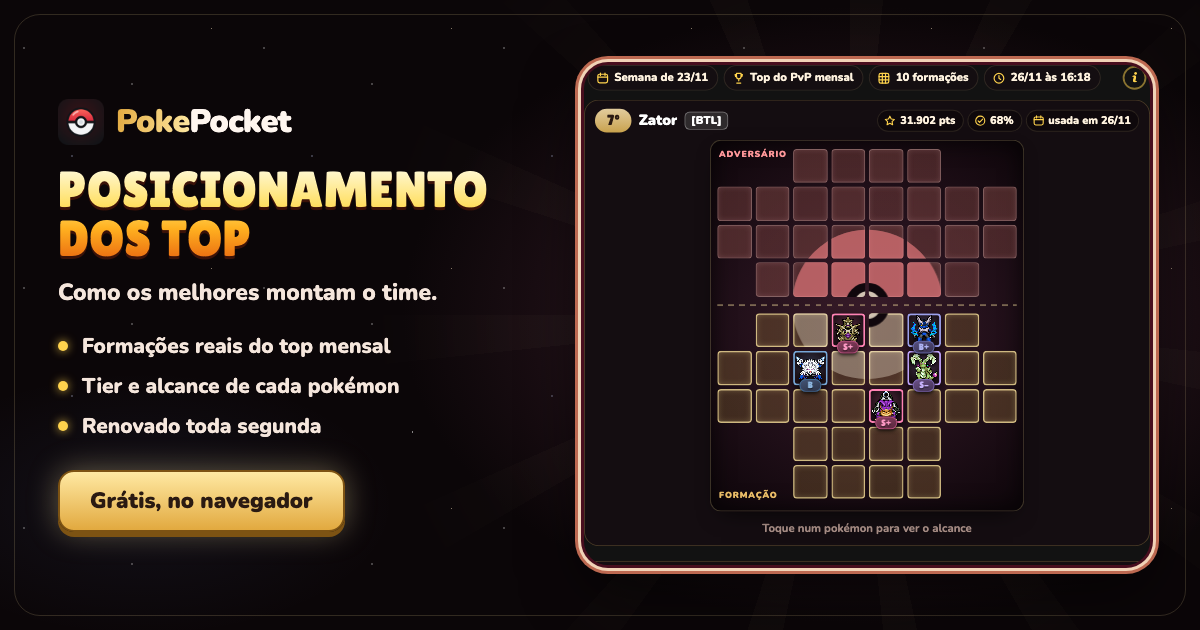
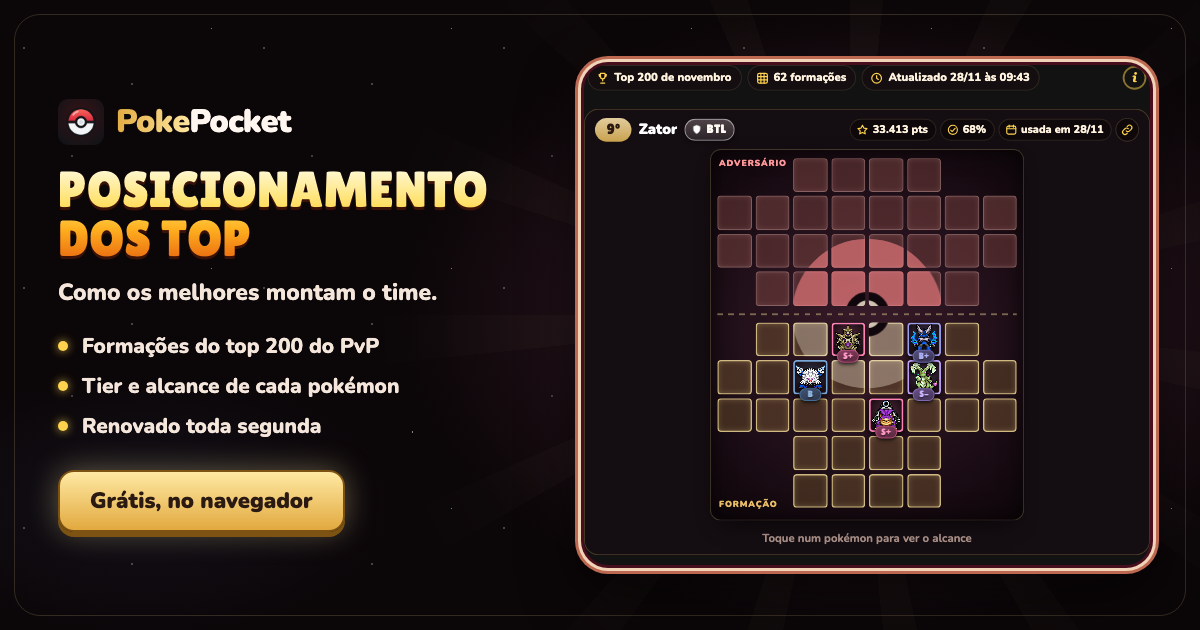
fix(posicionamento): texto diz que a lista traz todas as formações do top 200 vistas em partidas

diff --git a/posicionamento/index.html b/posicionamento/index.html
@@ -4,20 +4,20 @@
   <meta charset="utf-8" />
   <meta name="viewport" content="width=device-width, initial-scale=1" />
   <title>Posicionamento dos top · PokePocket</title>
-  <meta name="description" content="Formações montadas por jogadores do top mensal do PvP do Pokéidle: onde cada pokémon fica no tabuleiro, tier e alcance. Renova toda segunda." />
+  <meta name="description" content="Formações do top 200 do PvP mensal do Pokéidle vistas em partidas: onde cada pokémon fica no tabuleiro, tier e alcance. Renova toda segunda." />
   <meta name="theme-color" content="#0b0608" />
   <meta property="og:type" content="website" />
   <meta property="og:site_name" content="PokePocket" />
   <meta property="og:locale" content="pt_BR" />
   <meta property="og:title" content="Posicionamento dos top · PokePocket" />
-  <meta property="og:description" content="Formações montadas por jogadores do top mensal do PvP, com tier e alcance de cada pokémon" />
+  <meta property="og:description" content="Formações do top 200 do PvP mensal vistas em partidas, com tier e alcance de cada pokémon" />
   <meta property="og:url" content="https://iampiscis.github.io/pokepocket/posicionamento/" />
-  <meta property="og:image" content="https://iampiscis.github.io/pokepocket/assets/previa-posicionamento.png?v=202611270007" />
+  <meta property="og:image" content="https://iampiscis.github.io/pokepocket/assets/previa-posicionamento.png?v=202611281704" />
   <meta property="og:image:width" content="1200" />
   <meta property="og:image:height" content="630" />
-  <meta property="og:image:alt" content="Posicionamento dos top no PokePocket: formações montadas por jogadores do top mensal do PvP" />
+  <meta property="og:image:alt" content="Posicionamento dos top no PokePocket: formações do top 200 do PvP mensal vistas em partidas" />
   <meta name="twitter:card" content="summary_large_image" />
-  <meta name="twitter:image" content="https://iampiscis.github.io/pokepocket/assets/previa-posicionamento.png?v=202611270007" />
+  <meta name="twitter:image" content="https://iampiscis.github.io/pokepocket/assets/previa-posicionamento.png?v=202611281704" />
   <link rel="icon" href="../assets/icone.png" />
   <link rel="stylesheet" href="../assets/ferramentas.css?v=20261128" />
   <script src="../assets/ferramentas.js?v=20261128" defer></script>
@@ -47,7 +47,7 @@
             <a href="../calculadora/" data-goatcounter-click="menu-pos-calculadora" data-goatcounter-title="menu-pos-calculadora"><span class="ferr-ic"><svg viewBox="0 0 24 24" fill="none" stroke="currentColor" stroke-width="2" stroke-linecap="round" stroke-linejoin="round" aria-hidden="true"><rect x="5" y="2.5" width="14" height="19" rx="3"/><path d="M8.5 6.5h7M8.5 11h.01M12 11h.01M15.5 11h.01M8.5 14.5h.01M12 14.5h.01M8.5 18h.01M12 18h.01M15.5 14.5V18"/></svg></span><span class="ferr-txt"><b>Calculadora Pokémon</b><small>Nota, score e preço</small></span></a>
             <a href="../nivel/" data-goatcounter-click="menu-pos-nivel" data-goatcounter-title="menu-pos-nivel"><span class="ferr-ic"><svg viewBox="0 0 24 24" fill="none" stroke="currentColor" stroke-width="2" stroke-linecap="round" stroke-linejoin="round" aria-hidden="true"><path d="M2.5 20.5 9 9.5l3.6 5.6 2.4-3.4 6.5 8.8z"/><path d="M15 11.7V3.5l4.5 1.8L15 7.1"/></svg></span><span class="ferr-txt"><b>Nível</b><small>Quando você chega lá</small></span></a>
             <a href="../tier/" data-goatcounter-click="menu-pos-tier" data-goatcounter-title="menu-pos-tier"><span class="ferr-ic"><svg viewBox="0 0 24 24" fill="none" stroke="currentColor" stroke-width="2" stroke-linecap="round" stroke-linejoin="round" aria-hidden="true"><path d="M8 3.5h8V9a4 4 0 0 1-8 0z"/><path d="M8 5.5H5a3 3 0 0 0 3.2 4M16 5.5h3a3 3 0 0 1-3.2 4M12 13v3.5M8.5 20.5h7M9.5 16.5h5v4h-5z"/></svg></span><span class="ferr-txt"><b>Tier PvP</b><small>O meta do ranqueado, todo dia</small></span></a>
-            <a href="./" aria-current="page"><span class="ferr-ic"><svg viewBox="0 0 24 24" fill="none" stroke="currentColor" stroke-width="2" stroke-linecap="round" stroke-linejoin="round" aria-hidden="true"><rect x="3.5" y="3.5" width="17" height="17" rx="3"/><path d="M3.5 12h17"/><circle cx="12" cy="12" r="3"/><path d="M8 7.5h.01M16 7.5h.01M8 16.5h.01M12 16.5h.01M16 16.5h.01"/></svg></span><span class="ferr-txt"><b>Posicionamento<span class="selo-novo">novo</span></b><small>Formações montadas do top mensal</small></span></a>
+            <a href="./" aria-current="page"><span class="ferr-ic"><svg viewBox="0 0 24 24" fill="none" stroke="currentColor" stroke-width="2" stroke-linecap="round" stroke-linejoin="round" aria-hidden="true"><rect x="3.5" y="3.5" width="17" height="17" rx="3"/><path d="M3.5 12h17"/><circle cx="12" cy="12" r="3"/><path d="M8 7.5h.01M16 7.5h.01M8 16.5h.01M12 16.5h.01M16 16.5h.01"/></svg></span><span class="ferr-txt"><b>Posicionamento<span class="selo-novo">novo</span></b><small>Formações do top 200 do PvP</small></span></a>
             <a href="../monte-seu-time/" data-goatcounter-click="menu-pas" data-goatcounter-title="menu-pas"><span class="ferr-ic"><svg viewBox="0 0 24 24" fill="none" stroke="currentColor" stroke-width="2" stroke-linecap="round" stroke-linejoin="round" aria-hidden="true"><path d="M12 3.5l1.8 5.2 5.2 1.8-5.2 1.8L12 17.5l-1.8-5.2L5 10.5l5.2-1.8z"/><path d="M18.5 15.5l.7 2 2 .7-2 .7-.7 2-.7-2-2-.7 2-.7z"/></svg></span><span class="ferr-txt"><b>Monte seu time<span class="selo-novo">novo</span></b><small>Passivas do PvP no tabuleiro</small></span></a>
             <a href="../farm/" data-goatcounter-click="menu-farm" data-goatcounter-title="menu-farm"><span class="ferr-ic"><svg viewBox="0 0 24 24" fill="none" stroke="currentColor" stroke-width="2" stroke-linecap="round" stroke-linejoin="round" aria-hidden="true"><path d="M4 19.5h16"/><path d="M7 16v-4M12 16V7M17 16v-7"/><path d="M14.5 4.5 17 3l1.5 2.5"/></svg></span><span class="ferr-txt"><b>Top farm<span class="selo-novo">novo</span></b><small>Quem mais farma agora</small></span></a>
             <a href="../shinies/" data-goatcounter-click="menu-shinies" data-goatcounter-title="menu-shinies"><span class="ferr-ic"><svg viewBox="0 0 24 24" fill="none" stroke="currentColor" stroke-width="2" stroke-linecap="round" stroke-linejoin="round" aria-hidden="true"><path d="M12 2.5c.9 4.6 2.9 6.6 7.5 7.5-4.6.9-6.6 2.9-7.5 7.5-.9-4.6-2.9-6.6-7.5-7.5 4.6-.9 6.6-2.9 7.5-7.5z"/><path d="M19 16v4.5M16.75 18.25h4.5"/></svg></span><span class="ferr-txt"><b>Shinies 24h<span class="selo-novo">novo</span></b><small>Os capturados no último dia</small></span></a>
@@ -87,7 +87,7 @@
   <main>
     <section class="abre envolve">
       <h1>Posicionamento <span class="shiny">dos top</span></h1>
-      <p>Jogadores do top 200 do PvP mensal que montam a formação fora da automática</p>
+      <p>Formações do top 200 do PvP mensal vistas em partidas contra as nossas contas</p>
     </section>
 
     <div class="envolve largo">

diff --git a/monte-seu-time/index.html b/monte-seu-time/index.html
@@ -46,7 +46,7 @@
             <a href="../calculadora/" data-goatcounter-click="menu-pas-calculadora" data-goatcounter-title="menu-pas-calculadora"><span class="ferr-ic"><svg viewBox="0 0 24 24" fill="none" stroke="currentColor" stroke-width="2" stroke-linecap="round" stroke-linejoin="round" aria-hidden="true"><rect x="5" y="2.5" width="14" height="19" rx="3"/><path d="M8.5 6.5h7M8.5 11h.01M12 11h.01M15.5 11h.01M8.5 14.5h.01M12 14.5h.01M8.5 18h.01M12 18h.01M15.5 14.5V18"/></svg></span><span class="ferr-txt"><b>Calculadora Pokémon</b><small>Nota, score e preço</small></span></a>
             <a href="../nivel/" data-goatcounter-click="menu-pas-nivel" data-goatcounter-title="menu-pas-nivel"><span class="ferr-ic"><svg viewBox="0 0 24 24" fill="none" stroke="currentColor" stroke-width="2" stroke-linecap="round" stroke-linejoin="round" aria-hidden="true"><path d="M2.5 20.5 9 9.5l3.6 5.6 2.4-3.4 6.5 8.8z"/><path d="M15 11.7V3.5l4.5 1.8L15 7.1"/></svg></span><span class="ferr-txt"><b>Nível</b><small>Quando você chega lá</small></span></a>
             <a href="../tier/" data-goatcounter-click="menu-pas-tier" data-goatcounter-title="menu-pas-tier"><span class="ferr-ic"><svg viewBox="0 0 24 24" fill="none" stroke="currentColor" stroke-width="2" stroke-linecap="round" stroke-linejoin="round" aria-hidden="true"><path d="M8 3.5h8V9a4 4 0 0 1-8 0z"/><path d="M8 5.5H5a3 3 0 0 0 3.2 4M16 5.5h3a3 3 0 0 1-3.2 4M12 13v3.5M8.5 20.5h7M9.5 16.5h5v4h-5z"/></svg></span><span class="ferr-txt"><b>Tier PvP</b><small>O meta do ranqueado, todo dia</small></span></a>
-            <a href="../posicionamento/" data-goatcounter-click="menu-pas-posicionamento" data-goatcounter-title="menu-pas-posicionamento"><span class="ferr-ic"><svg viewBox="0 0 24 24" fill="none" stroke="currentColor" stroke-width="2" stroke-linecap="round" stroke-linejoin="round" aria-hidden="true"><rect x="3.5" y="3.5" width="17" height="17" rx="3"/><path d="M3.5 12h17"/><circle cx="12" cy="12" r="3"/><path d="M8 7.5h.01M16 7.5h.01M8 16.5h.01M12 16.5h.01M16 16.5h.01"/></svg></span><span class="ferr-txt"><b>Posicionamento<span class="selo-novo">novo</span></b><small>Formações montadas do top mensal</small></span></a>
+            <a href="../posicionamento/" data-goatcounter-click="menu-pas-posicionamento" data-goatcounter-title="menu-pas-posicionamento"><span class="ferr-ic"><svg viewBox="0 0 24 24" fill="none" stroke="currentColor" stroke-width="2" stroke-linecap="round" stroke-linejoin="round" aria-hidden="true"><rect x="3.5" y="3.5" width="17" height="17" rx="3"/><path d="M3.5 12h17"/><circle cx="12" cy="12" r="3"/><path d="M8 7.5h.01M16 7.5h.01M8 16.5h.01M12 16.5h.01M16 16.5h.01"/></svg></span><span class="ferr-txt"><b>Posicionamento<span class="selo-novo">novo</span></b><small>Formações do top 200 do PvP</small></span></a>
             <a href="./" aria-current="page"><span class="ferr-ic"><svg viewBox="0 0 24 24" fill="none" stroke="currentColor" stroke-width="2" stroke-linecap="round" stroke-linejoin="round" aria-hidden="true"><path d="M12 3.5l1.8 5.2 5.2 1.8-5.2 1.8L12 17.5l-1.8-5.2L5 10.5l5.2-1.8z"/><path d="M18.5 15.5l.7 2 2 .7-2 .7-.7 2-.7-2-2-.7 2-.7z"/></svg></span><span class="ferr-txt"><b>Monte seu time<span class="selo-novo">novo</span></b><small>Passivas do PvP no tabuleiro</small></span></a>
             <a href="../farm/" data-goatcounter-click="menu-farm" data-goatcounter-title="menu-farm"><span class="ferr-ic"><svg viewBox="0 0 24 24" fill="none" stroke="currentColor" stroke-width="2" stroke-linecap="round" stroke-linejoin="round" aria-hidden="true"><path d="M4 19.5h16"/><path d="M7 16v-4M12 16V7M17 16v-7"/><path d="M14.5 4.5 17 3l1.5 2.5"/></svg></span><span class="ferr-txt"><b>Top farm<span class="selo-novo">novo</span></b><small>Quem mais farma agora</small></span></a>
             <a href="../shinies/" data-goatcounter-click="menu-shinies" data-goatcounter-title="menu-shinies"><span class="ferr-ic"><svg viewBox="0 0 24 24" fill="none" stroke="currentColor" stroke-width="2" stroke-linecap="round" stroke-linejoin="round" aria-hidden="true"><path d="M12 2.5c.9 4.6 2.9 6.6 7.5 7.5-4.6.9-6.6 2.9-7.5 7.5-.9-4.6-2.9-6.6-7.5-7.5 4.6-.9 6.6-2.9 7.5-7.5z"/><path d="M19 16v4.5M16.75 18.25h4.5"/></svg></span><span class="ferr-txt"><b>Shinies 24h<span class="selo-novo">novo</span></b><small>Os capturados no último dia</small></span></a>

diff --git a/nivel/index.html b/nivel/index.html
@@ -48,7 +48,7 @@
             <a href="../calculadora/" data-goatcounter-click="menu-nivel-calculadora" data-goatcounter-title="menu-nivel-calculadora"><span class="ferr-ic"><svg viewBox="0 0 24 24" fill="none" stroke="currentColor" stroke-width="2" stroke-linecap="round" stroke-linejoin="round" aria-hidden="true"><rect x="5" y="2.5" width="14" height="19" rx="3"/><path d="M8.5 6.5h7M8.5 11h.01M12 11h.01M15.5 11h.01M8.5 14.5h.01M12 14.5h.01M8.5 18h.01M12 18h.01M15.5 14.5V18"/></svg></span><span class="ferr-txt"><b>Calculadora Pokémon</b><small>Nota, score e preço</small></span></a>
             <a href="./" aria-current="page"><span class="ferr-ic"><svg viewBox="0 0 24 24" fill="none" stroke="currentColor" stroke-width="2" stroke-linecap="round" stroke-linejoin="round" aria-hidden="true"><path d="M2.5 20.5 9 9.5l3.6 5.6 2.4-3.4 6.5 8.8z"/><path d="M15 11.7V3.5l4.5 1.8L15 7.1"/></svg></span><span class="ferr-txt"><b>Nível</b><small>Quando você chega lá</small></span></a>
             <a href="../tier/" data-goatcounter-click="menu-nivel-tier" data-goatcounter-title="menu-nivel-tier"><span class="ferr-ic"><svg viewBox="0 0 24 24" fill="none" stroke="currentColor" stroke-width="2" stroke-linecap="round" stroke-linejoin="round" aria-hidden="true"><path d="M8 3.5h8V9a4 4 0 0 1-8 0z"/><path d="M8 5.5H5a3 3 0 0 0 3.2 4M16 5.5h3a3 3 0 0 1-3.2 4M12 13v3.5M8.5 20.5h7M9.5 16.5h5v4h-5z"/></svg></span><span class="ferr-txt"><b>Tier PvP</b><small>O meta do ranqueado, todo dia</small></span></a>
-            <a href="../posicionamento/" data-goatcounter-click="menu-nivel-pos" data-goatcounter-title="menu-nivel-pos"><span class="ferr-ic"><svg viewBox="0 0 24 24" fill="none" stroke="currentColor" stroke-width="2" stroke-linecap="round" stroke-linejoin="round" aria-hidden="true"><rect x="3.5" y="3.5" width="17" height="17" rx="3"/><path d="M3.5 12h17"/><circle cx="12" cy="12" r="3"/><path d="M8 7.5h.01M16 7.5h.01M8 16.5h.01M12 16.5h.01M16 16.5h.01"/></svg></span><span class="ferr-txt"><b>Posicionamento<span class="selo-novo">novo</span></b><small>Formações montadas do top mensal</small></span></a>
+            <a href="../posicionamento/" data-goatcounter-click="menu-nivel-pos" data-goatcounter-title="menu-nivel-pos"><span class="ferr-ic"><svg viewBox="0 0 24 24" fill="none" stroke="currentColor" stroke-width="2" stroke-linecap="round" stroke-linejoin="round" aria-hidden="true"><rect x="3.5" y="3.5" width="17" height="17" rx="3"/><path d="M3.5 12h17"/><circle cx="12" cy="12" r="3"/><path d="M8 7.5h.01M16 7.5h.01M8 16.5h.01M12 16.5h.01M16 16.5h.01"/></svg></span><span class="ferr-txt"><b>Posicionamento<span class="selo-novo">novo</span></b><small>Formações do top 200 do PvP</small></span></a>
             <a href="../monte-seu-time/" data-goatcounter-click="menu-nivel-pas" data-goatcounter-title="menu-nivel-pas"><span class="ferr-ic"><svg viewBox="0 0 24 24" fill="none" stroke="currentColor" stroke-width="2" stroke-linecap="round" stroke-linejoin="round" aria-hidden="true"><path d="M12 3.5l1.8 5.2 5.2 1.8-5.2 1.8L12 17.5l-1.8-5.2L5 10.5l5.2-1.8z"/><path d="M18.5 15.5l.7 2 2 .7-2 .7-.7 2-.7-2-2-.7 2-.7z"/></svg></span><span class="ferr-txt"><b>Monte seu time<span class="selo-novo">novo</span></b><small>Passivas do PvP no tabuleiro</small></span></a>
             <a href="../farm/" data-goatcounter-click="menu-farm" data-goatcounter-title="menu-farm"><span class="ferr-ic"><svg viewBox="0 0 24 24" fill="none" stroke="currentColor" stroke-width="2" stroke-linecap="round" stroke-linejoin="round" aria-hidden="true"><path d="M4 19.5h16"/><path d="M7 16v-4M12 16V7M17 16v-7"/><path d="M14.5 4.5 17 3l1.5 2.5"/></svg></span><span class="ferr-txt"><b>Top farm<span class="selo-novo">novo</span></b><small>Quem mais farma agora</small></span></a>
             <a href="../shinies/" data-goatcounter-click="menu-shinies" data-goatcounter-title="menu-shinies"><span class="ferr-ic"><svg viewBox="0 0 24 24" fill="none" stroke="currentColor" stroke-width="2" stroke-linecap="round" stroke-linejoin="round" aria-hidden="true"><path d="M12 2.5c.9 4.6 2.9 6.6 7.5 7.5-4.6.9-6.6 2.9-7.5 7.5-.9-4.6-2.9-6.6-7.5-7.5 4.6-.9 6.6-2.9 7.5-7.5z"/><path d="M19 16v4.5M16.75 18.25h4.5"/></svg></span><span class="ferr-txt"><b>Shinies 24h<span class="selo-novo">novo</span></b><small>Os capturados no último dia</small></span></a>

diff --git a/tier/index.html b/tier/index.html
@@ -46,7 +46,7 @@
             <a href="../calculadora/" data-goatcounter-click="menu-tier-calculadora" data-goatcounter-title="menu-tier-calculadora"><span class="ferr-ic"><svg viewBox="0 0 24 24" fill="none" stroke="currentColor" stroke-width="2" stroke-linecap="round" stroke-linejoin="round" aria-hidden="true"><rect x="5" y="2.5" width="14" height="19" rx="3"/><path d="M8.5 6.5h7M8.5 11h.01M12 11h.01M15.5 11h.01M8.5 14.5h.01M12 14.5h.01M8.5 18h.01M12 18h.01M15.5 14.5V18"/></svg></span><span class="ferr-txt"><b>Calculadora Pokémon</b><small>Nota, score e preço</small></span></a>
             <a href="../nivel/" data-goatcounter-click="menu-tier-nivel" data-goatcounter-title="menu-tier-nivel"><span class="ferr-ic"><svg viewBox="0 0 24 24" fill="none" stroke="currentColor" stroke-width="2" stroke-linecap="round" stroke-linejoin="round" aria-hidden="true"><path d="M2.5 20.5 9 9.5l3.6 5.6 2.4-3.4 6.5 8.8z"/><path d="M15 11.7V3.5l4.5 1.8L15 7.1"/></svg></span><span class="ferr-txt"><b>Nível</b><small>Quando você chega lá</small></span></a>
             <a href="./" aria-current="page"><span class="ferr-ic"><svg viewBox="0 0 24 24" fill="none" stroke="currentColor" stroke-width="2" stroke-linecap="round" stroke-linejoin="round" aria-hidden="true"><path d="M8 3.5h8V9a4 4 0 0 1-8 0z"/><path d="M8 5.5H5a3 3 0 0 0 3.2 4M16 5.5h3a3 3 0 0 1-3.2 4M12 13v3.5M8.5 20.5h7M9.5 16.5h5v4h-5z"/></svg></span><span class="ferr-txt"><b>Tier PvP</b><small>O meta do ranqueado, todo dia</small></span></a>
-            <a href="../posicionamento/" data-goatcounter-click="menu-tier-pos" data-goatcounter-title="menu-tier-pos"><span class="ferr-ic"><svg viewBox="0 0 24 24" fill="none" stroke="currentColor" stroke-width="2" stroke-linecap="round" stroke-linejoin="round" aria-hidden="true"><rect x="3.5" y="3.5" width="17" height="17" rx="3"/><path d="M3.5 12h17"/><circle cx="12" cy="12" r="3"/><path d="M8 7.5h.01M16 7.5h.01M8 16.5h.01M12 16.5h.01M16 16.5h.01"/></svg></span><span class="ferr-txt"><b>Posicionamento<span class="selo-novo">novo</span></b><small>Formações montadas do top mensal</small></span></a>
+            <a href="../posicionamento/" data-goatcounter-click="menu-tier-pos" data-goatcounter-title="menu-tier-pos"><span class="ferr-ic"><svg viewBox="0 0 24 24" fill="none" stroke="currentColor" stroke-width="2" stroke-linecap="round" stroke-linejoin="round" aria-hidden="true"><rect x="3.5" y="3.5" width="17" height="17" rx="3"/><path d="M3.5 12h17"/><circle cx="12" cy="12" r="3"/><path d="M8 7.5h.01M16 7.5h.01M8 16.5h.01M12 16.5h.01M16 16.5h.01"/></svg></span><span class="ferr-txt"><b>Posicionamento<span class="selo-novo">novo</span></b><small>Formações do top 200 do PvP</small></span></a>
             <a href="../monte-seu-time/" data-goatcounter-click="menu-tier-pas" data-goatcounter-title="menu-tier-pas"><span class="ferr-ic"><svg viewBox="0 0 24 24" fill="none" stroke="currentColor" stroke-width="2" stroke-linecap="round" stroke-linejoin="round" aria-hidden="true"><path d="M12 3.5l1.8 5.2 5.2 1.8-5.2 1.8L12 17.5l-1.8-5.2L5 10.5l5.2-1.8z"/><path d="M18.5 15.5l.7 2 2 .7-2 .7-.7 2-.7-2-2-.7 2-.7z"/></svg></span><span class="ferr-txt"><b>Monte seu time<span class="selo-novo">novo</span></b><small>Passivas do PvP no tabuleiro</small></span></a>
             <a href="../farm/" data-goatcounter-click="menu-farm" data-goatcounter-title="menu-farm"><span class="ferr-ic"><svg viewBox="0 0 24 24" fill="none" stroke="currentColor" stroke-width="2" stroke-linecap="round" stroke-linejoin="round" aria-hidden="true"><path d="M4 19.5h16"/><path d="M7 16v-4M12 16V7M17 16v-7"/><path d="M14.5 4.5 17 3l1.5 2.5"/></svg></span><span class="ferr-txt"><b>Top farm<span class="selo-novo">novo</span></b><small>Quem mais farma agora</small></span></a>
             <a href="../shinies/" data-goatcounter-click="menu-shinies" data-goatcounter-title="menu-shinies"><span class="ferr-ic"><svg viewBox="0 0 24 24" fill="none" stroke="currentColor" stroke-width="2" stroke-linecap="round" stroke-linejoin="round" aria-hidden="true"><path d="M12 2.5c.9 4.6 2.9 6.6 7.5 7.5-4.6.9-6.6 2.9-7.5 7.5-.9-4.6-2.9-6.6-7.5-7.5 4.6-.9 6.6-2.9 7.5-7.5z"/><path d="M19 16v4.5M16.75 18.25h4.5"/></svg></span><span class="ferr-txt"><b>Shinies 24h<span class="selo-novo">novo</span></b><small>Os capturados no último dia</small></span></a>

diff --git a/calculadora/index.html b/calculadora/index.html
@@ -45,7 +45,7 @@
             <a href="./" aria-current="page"><span class="ferr-ic"><svg viewBox="0 0 24 24" fill="none" stroke="currentColor" stroke-width="2" stroke-linecap="round" stroke-linejoin="round" aria-hidden="true"><rect x="5" y="2.5" width="14" height="19" rx="3"/><path d="M8.5 6.5h7M8.5 11h.01M12 11h.01M15.5 11h.01M8.5 14.5h.01M12 14.5h.01M8.5 18h.01M12 18h.01M15.5 14.5V18"/></svg></span><span class="ferr-txt"><b>Calculadora Pokémon</b><small>Nota, score e preço</small></span></a>
             <a href="../nivel/" data-goatcounter-click="menu-calc-nivel-topo" data-goatcounter-title="menu-calc-nivel-topo"><span class="ferr-ic"><svg viewBox="0 0 24 24" fill="none" stroke="currentColor" stroke-width="2" stroke-linecap="round" stroke-linejoin="round" aria-hidden="true"><path d="M2.5 20.5 9 9.5l3.6 5.6 2.4-3.4 6.5 8.8z"/><path d="M15 11.7V3.5l4.5 1.8L15 7.1"/></svg></span><span class="ferr-txt"><b>Nível</b><small>Quando você chega lá</small></span></a>
             <a href="../tier/" data-goatcounter-click="menu-calc-tier-topo" data-goatcounter-title="menu-calc-tier-topo"><span class="ferr-ic"><svg viewBox="0 0 24 24" fill="none" stroke="currentColor" stroke-width="2" stroke-linecap="round" stroke-linejoin="round" aria-hidden="true"><path d="M8 3.5h8V9a4 4 0 0 1-8 0z"/><path d="M8 5.5H5a3 3 0 0 0 3.2 4M16 5.5h3a3 3 0 0 1-3.2 4M12 13v3.5M8.5 20.5h7M9.5 16.5h5v4h-5z"/></svg></span><span class="ferr-txt"><b>Tier PvP</b><small>O meta do ranqueado, todo dia</small></span></a>
-            <a href="../posicionamento/" data-goatcounter-click="menu-calc-pos" data-goatcounter-title="menu-calc-pos"><span class="ferr-ic"><svg viewBox="0 0 24 24" fill="none" stroke="currentColor" stroke-width="2" stroke-linecap="round" stroke-linejoin="round" aria-hidden="true"><rect x="3.5" y="3.5" width="17" height="17" rx="3"/><path d="M3.5 12h17"/><circle cx="12" cy="12" r="3"/><path d="M8 7.5h.01M16 7.5h.01M8 16.5h.01M12 16.5h.01M16 16.5h.01"/></svg></span><span class="ferr-txt"><b>Posicionamento<span class="selo-novo">novo</span></b><small>Formações montadas do top mensal</small></span></a>
+            <a href="../posicionamento/" data-goatcounter-click="menu-calc-pos" data-goatcounter-title="menu-calc-pos"><span class="ferr-ic"><svg viewBox="0 0 24 24" fill="none" stroke="currentColor" stroke-width="2" stroke-linecap="round" stroke-linejoin="round" aria-hidden="true"><rect x="3.5" y="3.5" width="17" height="17" rx="3"/><path d="M3.5 12h17"/><circle cx="12" cy="12" r="3"/><path d="M8 7.5h.01M16 7.5h.01M8 16.5h.01M12 16.5h.01M16 16.5h.01"/></svg></span><span class="ferr-txt"><b>Posicionamento<span class="selo-novo">novo</span></b><small>Formações do top 200 do PvP</small></span></a>
             <a href="../monte-seu-time/" data-goatcounter-click="menu-calc-pas" data-goatcounter-title="menu-calc-pas"><span class="ferr-ic"><svg viewBox="0 0 24 24" fill="none" stroke="currentColor" stroke-width="2" stroke-linecap="round" stroke-linejoin="round" aria-hidden="true"><path d="M12 3.5l1.8 5.2 5.2 1.8-5.2 1.8L12 17.5l-1.8-5.2L5 10.5l5.2-1.8z"/><path d="M18.5 15.5l.7 2 2 .7-2 .7-.7 2-.7-2-2-.7 2-.7z"/></svg></span><span class="ferr-txt"><b>Monte seu time<span class="selo-novo">novo</span></b><small>Passivas do PvP no tabuleiro</small></span></a>
             <a href="../farm/" data-goatcounter-click="menu-farm" data-goatcounter-title="menu-farm"><span class="ferr-ic"><svg viewBox="0 0 24 24" fill="none" stroke="currentColor" stroke-width="2" stroke-linecap="round" stroke-linejoin="round" aria-hidden="true"><path d="M4 19.5h16"/><path d="M7 16v-4M12 16V7M17 16v-7"/><path d="M14.5 4.5 17 3l1.5 2.5"/></svg></span><span class="ferr-txt"><b>Top farm<span class="selo-novo">novo</span></b><small>Quem mais farma agora</small></span></a>
             <a href="../shinies/" data-goatcounter-click="menu-shinies" data-goatcounter-title="menu-shinies"><span class="ferr-ic"><svg viewBox="0 0 24 24" fill="none" stroke="currentColor" stroke-width="2" stroke-linecap="round" stroke-linejoin="round" aria-hidden="true"><path d="M12 2.5c.9 4.6 2.9 6.6 7.5 7.5-4.6.9-6.6 2.9-7.5 7.5-.9-4.6-2.9-6.6-7.5-7.5 4.6-.9 6.6-2.9 7.5-7.5z"/><path d="M19 16v4.5M16.75 18.25h4.5"/></svg></span><span class="ferr-txt"><b>Shinies 24h<span class="selo-novo">novo</span></b><small>Os capturados no último dia</small></span></a>

diff --git a/index.html b/index.html
@@ -396,7 +396,7 @@
             <a href="calculadora/" data-goatcounter-click="calculadora-topo" data-goatcounter-title="calculadora-topo"><span class="ferr-ic"><svg viewBox="0 0 24 24" fill="none" stroke="currentColor" stroke-width="2" stroke-linecap="round" stroke-linejoin="round" aria-hidden="true"><rect x="5" y="2.5" width="14" height="19" rx="3"/><path d="M8.5 6.5h7M8.5 11h.01M12 11h.01M15.5 11h.01M8.5 14.5h.01M12 14.5h.01M8.5 18h.01M12 18h.01M15.5 14.5V18"/></svg></span><span class="ferr-txt"><b>Calculadora Pokémon</b><small>Nota, score e preço</small></span></a>
             <a href="nivel/" data-goatcounter-click="nivel-topo" data-goatcounter-title="nivel-topo"><span class="ferr-ic"><svg viewBox="0 0 24 24" fill="none" stroke="currentColor" stroke-width="2" stroke-linecap="round" stroke-linejoin="round" aria-hidden="true"><path d="M2.5 20.5 9 9.5l3.6 5.6 2.4-3.4 6.5 8.8z"/><path d="M15 11.7V3.5l4.5 1.8L15 7.1"/></svg></span><span class="ferr-txt"><b>Nível</b><small>Quando você chega lá</small></span></a>
             <a href="tier/" data-goatcounter-click="tier-topo" data-goatcounter-title="tier-topo"><span class="ferr-ic"><svg viewBox="0 0 24 24" fill="none" stroke="currentColor" stroke-width="2" stroke-linecap="round" stroke-linejoin="round" aria-hidden="true"><path d="M8 3.5h8V9a4 4 0 0 1-8 0z"/><path d="M8 5.5H5a3 3 0 0 0 3.2 4M16 5.5h3a3 3 0 0 1-3.2 4M12 13v3.5M8.5 20.5h7M9.5 16.5h5v4h-5z"/></svg></span><span class="ferr-txt"><b>Tier PvP</b><small>O meta do ranqueado, todo dia</small></span></a>
-            <a href="posicionamento/" data-goatcounter-click="menu-pos" data-goatcounter-title="menu-pos"><span class="ferr-ic"><svg viewBox="0 0 24 24" fill="none" stroke="currentColor" stroke-width="2" stroke-linecap="round" stroke-linejoin="round" aria-hidden="true"><rect x="3.5" y="3.5" width="17" height="17" rx="3"/><path d="M3.5 12h17"/><circle cx="12" cy="12" r="3"/><path d="M8 7.5h.01M16 7.5h.01M8 16.5h.01M12 16.5h.01M16 16.5h.01"/></svg></span><span class="ferr-txt"><b>Posicionamento<span class="selo-novo">novo</span></b><small>Formações montadas do top mensal</small></span></a>
+            <a href="posicionamento/" data-goatcounter-click="menu-pos" data-goatcounter-title="menu-pos"><span class="ferr-ic"><svg viewBox="0 0 24 24" fill="none" stroke="currentColor" stroke-width="2" stroke-linecap="round" stroke-linejoin="round" aria-hidden="true"><rect x="3.5" y="3.5" width="17" height="17" rx="3"/><path d="M3.5 12h17"/><circle cx="12" cy="12" r="3"/><path d="M8 7.5h.01M16 7.5h.01M8 16.5h.01M12 16.5h.01M16 16.5h.01"/></svg></span><span class="ferr-txt"><b>Posicionamento<span class="selo-novo">novo</span></b><small>Formações do top 200 do PvP</small></span></a>
             <a href="monte-seu-time/" data-goatcounter-click="menu-pas" data-goatcounter-title="menu-pas"><span class="ferr-ic"><svg viewBox="0 0 24 24" fill="none" stroke="currentColor" stroke-width="2" stroke-linecap="round" stroke-linejoin="round" aria-hidden="true"><path d="M12 3.5l1.8 5.2 5.2 1.8-5.2 1.8L12 17.5l-1.8-5.2L5 10.5l5.2-1.8z"/><path d="M18.5 15.5l.7 2 2 .7-2 .7-.7 2-.7-2-2-.7 2-.7z"/></svg></span><span class="ferr-txt"><b>Monte seu time<span class="selo-novo">novo</span></b><small>Passivas do PvP no tabuleiro</small></span></a>
             <a href="farm/" data-goatcounter-click="menu-farm" data-goatcounter-title="menu-farm"><span class="ferr-ic"><svg viewBox="0 0 24 24" fill="none" stroke="currentColor" stroke-width="2" stroke-linecap="round" stroke-linejoin="round" aria-hidden="true"><path d="M4 19.5h16"/><path d="M7 16v-4M12 16V7M17 16v-7"/><path d="M14.5 4.5 17 3l1.5 2.5"/></svg></span><span class="ferr-txt"><b>Top farm<span class="selo-novo">novo</span></b><small>Quem mais farma agora</small></span></a>
             <a href="shinies/" data-goatcounter-click="menu-shinies" data-goatcounter-title="menu-shinies"><span class="ferr-ic"><svg viewBox="0 0 24 24" fill="none" stroke="currentColor" stroke-width="2" stroke-linecap="round" stroke-linejoin="round" aria-hidden="true"><path d="M12 2.5c.9 4.6 2.9 6.6 7.5 7.5-4.6.9-6.6 2.9-7.5 7.5-.9-4.6-2.9-6.6-7.5-7.5 4.6-.9 6.6-2.9 7.5-7.5z"/><path d="M19 16v4.5M16.75 18.25h4.5"/></svg></span><span class="ferr-txt"><b>Shinies 24h<span class="selo-novo">novo</span></b><small>Os capturados no último dia</small></span></a>

diff --git a/shinies/index.html b/shinies/index.html
@@ -48,7 +48,7 @@
             <a href="../calculadora/" data-goatcounter-click="menu-shinies-calculadora" data-goatcounter-title="menu-shinies-calculadora"><span class="ferr-ic"><svg viewBox="0 0 24 24" fill="none" stroke="currentColor" stroke-width="2" stroke-linecap="round" stroke-linejoin="round" aria-hidden="true"><rect x="5" y="2.5" width="14" height="19" rx="3"/><path d="M8.5 6.5h7M8.5 11h.01M12 11h.01M15.5 11h.01M8.5 14.5h.01M12 14.5h.01M8.5 18h.01M12 18h.01M15.5 14.5V18"/></svg></span><span class="ferr-txt"><b>Calculadora Pokémon</b><small>Nota, score e preço</small></span></a>
             <a href="../nivel/" data-goatcounter-click="menu-shinies-nivel" data-goatcounter-title="menu-shinies-nivel"><span class="ferr-ic"><svg viewBox="0 0 24 24" fill="none" stroke="currentColor" stroke-width="2" stroke-linecap="round" stroke-linejoin="round" aria-hidden="true"><path d="M2.5 20.5 9 9.5l3.6 5.6 2.4-3.4 6.5 8.8z"/><path d="M15 11.7V3.5l4.5 1.8L15 7.1"/></svg></span><span class="ferr-txt"><b>Nível</b><small>Quando você chega lá</small></span></a>
             <a href="../tier/" data-goatcounter-click="menu-shinies-tier" data-goatcounter-title="menu-shinies-tier"><span class="ferr-ic"><svg viewBox="0 0 24 24" fill="none" stroke="currentColor" stroke-width="2" stroke-linecap="round" stroke-linejoin="round" aria-hidden="true"><path d="M8 3.5h8V9a4 4 0 0 1-8 0z"/><path d="M8 5.5H5a3 3 0 0 0 3.2 4M16 5.5h3a3 3 0 0 1-3.2 4M12 13v3.5M8.5 20.5h7M9.5 16.5h5v4h-5z"/></svg></span><span class="ferr-txt"><b>Tier PvP</b><small>O meta do ranqueado, todo dia</small></span></a>
-            <a href="../posicionamento/"><span class="ferr-ic"><svg viewBox="0 0 24 24" fill="none" stroke="currentColor" stroke-width="2" stroke-linecap="round" stroke-linejoin="round" aria-hidden="true"><rect x="3.5" y="3.5" width="17" height="17" rx="3"/><path d="M3.5 12h17"/><circle cx="12" cy="12" r="3"/><path d="M8 7.5h.01M16 7.5h.01M8 16.5h.01M12 16.5h.01M16 16.5h.01"/></svg></span><span class="ferr-txt"><b>Posicionamento<span class="selo-novo">novo</span></b><small>Formações montadas do top mensal</small></span></a>
+            <a href="../posicionamento/"><span class="ferr-ic"><svg viewBox="0 0 24 24" fill="none" stroke="currentColor" stroke-width="2" stroke-linecap="round" stroke-linejoin="round" aria-hidden="true"><rect x="3.5" y="3.5" width="17" height="17" rx="3"/><path d="M3.5 12h17"/><circle cx="12" cy="12" r="3"/><path d="M8 7.5h.01M16 7.5h.01M8 16.5h.01M12 16.5h.01M16 16.5h.01"/></svg></span><span class="ferr-txt"><b>Posicionamento<span class="selo-novo">novo</span></b><small>Formações do top 200 do PvP</small></span></a>
             <a href="../monte-seu-time/" data-goatcounter-click="menu-pas" data-goatcounter-title="menu-pas"><span class="ferr-ic"><svg viewBox="0 0 24 24" fill="none" stroke="currentColor" stroke-width="2" stroke-linecap="round" stroke-linejoin="round" aria-hidden="true"><path d="M12 3.5l1.8 5.2 5.2 1.8-5.2 1.8L12 17.5l-1.8-5.2L5 10.5l5.2-1.8z"/><path d="M18.5 15.5l.7 2 2 .7-2 .7-.7 2-.7-2-2-.7 2-.7z"/></svg></span><span class="ferr-txt"><b>Monte seu time<span class="selo-novo">novo</span></b><small>Passivas do PvP no tabuleiro</small></span></a>
             <a href="../farm/" data-goatcounter-click="menu-shinies-farm" data-goatcounter-title="menu-shinies-farm"><span class="ferr-ic"><svg viewBox="0 0 24 24" fill="none" stroke="currentColor" stroke-width="2" stroke-linecap="round" stroke-linejoin="round" aria-hidden="true"><path d="M4 19.5h16"/><path d="M7 16v-4M12 16V7M17 16v-7"/><path d="M14.5 4.5 17 3l1.5 2.5"/></svg></span><span class="ferr-txt"><b>Top farm<span class="selo-novo">novo</span></b><small>Quem mais farma agora</small></span></a>
             <a href="./" aria-current="page"><span class="ferr-ic"><svg viewBox="0 0 24 24" fill="none" stroke="currentColor" stroke-width="2" stroke-linecap="round" stroke-linejoin="round" aria-hidden="true"><path d="M12 2.5c.9 4.6 2.9 6.6 7.5 7.5-4.6.9-6.6 2.9-7.5 7.5-.9-4.6-2.9-6.6-7.5-7.5 4.6-.9 6.6-2.9 7.5-7.5z"/><path d="M19 16v4.5M16.75 18.25h4.5"/></svg></span><span class="ferr-txt"><b>Shinies 24h<span class="selo-novo">novo</span></b><small>Os capturados no último dia</small></span></a>

diff --git a/farm/index.html b/farm/index.html
@@ -48,7 +48,7 @@
             <a href="../calculadora/" data-goatcounter-click="menu-farm-calculadora" data-goatcounter-title="menu-farm-calculadora"><span class="ferr-ic"><svg viewBox="0 0 24 24" fill="none" stroke="currentColor" stroke-width="2" stroke-linecap="round" stroke-linejoin="round" aria-hidden="true"><rect x="5" y="2.5" width="14" height="19" rx="3"/><path d="M8.5 6.5h7M8.5 11h.01M12 11h.01M15.5 11h.01M8.5 14.5h.01M12 14.5h.01M8.5 18h.01M12 18h.01M15.5 14.5V18"/></svg></span><span class="ferr-txt"><b>Calculadora Pokémon</b><small>Nota, score e preço</small></span></a>
             <a href="../nivel/" data-goatcounter-click="menu-farm-nivel" data-goatcounter-title="menu-farm-nivel"><span class="ferr-ic"><svg viewBox="0 0 24 24" fill="none" stroke="currentColor" stroke-width="2" stroke-linecap="round" stroke-linejoin="round" aria-hidden="true"><path d="M2.5 20.5 9 9.5l3.6 5.6 2.4-3.4 6.5 8.8z"/><path d="M15 11.7V3.5l4.5 1.8L15 7.1"/></svg></span><span class="ferr-txt"><b>Nível</b><small>Quando você chega lá</small></span></a>
             <a href="../tier/" data-goatcounter-click="menu-farm-tier" data-goatcounter-title="menu-farm-tier"><span class="ferr-ic"><svg viewBox="0 0 24 24" fill="none" stroke="currentColor" stroke-width="2" stroke-linecap="round" stroke-linejoin="round" aria-hidden="true"><path d="M8 3.5h8V9a4 4 0 0 1-8 0z"/><path d="M8 5.5H5a3 3 0 0 0 3.2 4M16 5.5h3a3 3 0 0 1-3.2 4M12 13v3.5M8.5 20.5h7M9.5 16.5h5v4h-5z"/></svg></span><span class="ferr-txt"><b>Tier PvP</b><small>O meta do ranqueado, todo dia</small></span></a>
-            <a href="../posicionamento/"><span class="ferr-ic"><svg viewBox="0 0 24 24" fill="none" stroke="currentColor" stroke-width="2" stroke-linecap="round" stroke-linejoin="round" aria-hidden="true"><rect x="3.5" y="3.5" width="17" height="17" rx="3"/><path d="M3.5 12h17"/><circle cx="12" cy="12" r="3"/><path d="M8 7.5h.01M16 7.5h.01M8 16.5h.01M12 16.5h.01M16 16.5h.01"/></svg></span><span class="ferr-txt"><b>Posicionamento<span class="selo-novo">novo</span></b><small>Formações montadas do top mensal</small></span></a>
+            <a href="../posicionamento/"><span class="ferr-ic"><svg viewBox="0 0 24 24" fill="none" stroke="currentColor" stroke-width="2" stroke-linecap="round" stroke-linejoin="round" aria-hidden="true"><rect x="3.5" y="3.5" width="17" height="17" rx="3"/><path d="M3.5 12h17"/><circle cx="12" cy="12" r="3"/><path d="M8 7.5h.01M16 7.5h.01M8 16.5h.01M12 16.5h.01M16 16.5h.01"/></svg></span><span class="ferr-txt"><b>Posicionamento<span class="selo-novo">novo</span></b><small>Formações do top 200 do PvP</small></span></a>
             <a href="../monte-seu-time/" data-goatcounter-click="menu-pas" data-goatcounter-title="menu-pas"><span class="ferr-ic"><svg viewBox="0 0 24 24" fill="none" stroke="currentColor" stroke-width="2" stroke-linecap="round" stroke-linejoin="round" aria-hidden="true"><path d="M12 3.5l1.8 5.2 5.2 1.8-5.2 1.8L12 17.5l-1.8-5.2L5 10.5l5.2-1.8z"/><path d="M18.5 15.5l.7 2 2 .7-2 .7-.7 2-.7-2-2-.7 2-.7z"/></svg></span><span class="ferr-txt"><b>Monte seu time<span class="selo-novo">novo</span></b><small>Passivas do PvP no tabuleiro</small></span></a>
             <a href="./" aria-current="page"><span class="ferr-ic"><svg viewBox="0 0 24 24" fill="none" stroke="currentColor" stroke-width="2" stroke-linecap="round" stroke-linejoin="round" aria-hidden="true"><path d="M4 19.5h16"/><path d="M7 16v-4M12 16V7M17 16v-7"/><path d="M14.5 4.5 17 3l1.5 2.5"/></svg></span><span class="ferr-txt"><b>Top farm<span class="selo-novo">novo</span></b><small>Quem mais farma agora</small></span></a>
             <a href="../shinies/" data-goatcounter-click="menu-farm-shinies" data-goatcounter-title="menu-farm-shinies"><span class="ferr-ic"><svg viewBox="0 0 24 24" fill="none" stroke="currentColor" stroke-width="2" stroke-linecap="round" stroke-linejoin="round" aria-hidden="true"><path d="M12 2.5c.9 4.6 2.9 6.6 7.5 7.5-4.6.9-6.6 2.9-7.5 7.5-.9-4.6-2.9-6.6-7.5-7.5 4.6-.9 6.6-2.9 7.5-7.5z"/><path d="M19 16v4.5M16.75 18.25h4.5"/></svg></span><span class="ferr-txt"><b>Shinies 24h<span class="selo-novo">novo</span></b><small>Os capturados no último dia</small></span></a>

diff --git a/ferramentas/previas/ferramentas.html b/ferramentas/previas/ferramentas.html
@@ -31,6 +31,6 @@ h1 { font-family: "Lilita"; font-weight: 400; font-size: 60px; line-height: 0.98
   </ul>
   <span class="botao">Grátis, sem login</span>
 </div>
-<div class="grade"><div class="card"><span class="ic"><svg viewBox="0 0 24 24" fill="none" stroke="currentColor" stroke-width="2" stroke-linecap="round" stroke-linejoin="round"><rect x="5" y="2.5" width="14" height="19" rx="3"/><path d="M8.5 6.5h7M8.5 11h.01M12 11h.01M15.5 11h.01M8.5 14.5h.01M12 14.5h.01M8.5 18h.01M12 18h.01M15.5 14.5V18"/></svg></span><b>Calculadora</b><small>Nota, score PvP e preço justo</small></div><div class="card"><span class="ic"><svg viewBox="0 0 24 24" fill="none" stroke="currentColor" stroke-width="2" stroke-linecap="round" stroke-linejoin="round"><path d="M2.5 20.5 9 9.5l3.6 5.6 2.4-3.4 6.5 8.8z"/><path d="M15 11.7V3.5l4.5 1.8L15 7.1"/></svg></span><b>Nível</b><small>Quando a conta chega no nível</small></div><div class="card"><span class="ic"><svg viewBox="0 0 24 24" fill="none" stroke="currentColor" stroke-width="2" stroke-linecap="round" stroke-linejoin="round"><path d="M8 3.5h8V9a4 4 0 0 1-8 0z"/><path d="M8 5.5H5a3 3 0 0 0 3.2 4M16 5.5h3a3 3 0 0 1-3.2 4M12 13v3.5M8.5 20.5h7M9.5 16.5h5v4h-5z"/></svg></span><b>Tier PvP</b><small>O meta do ranqueado, todo dia</small></div><div class="card"><span class="ic"><svg viewBox="0 0 24 24" fill="none" stroke="currentColor" stroke-width="2" stroke-linecap="round" stroke-linejoin="round"><rect x="3.5" y="3.5" width="17" height="17" rx="3"/><path d="M3.5 12h17"/><circle cx="12" cy="12" r="3"/><path d="M8 7.5h.01M16 7.5h.01M8 16.5h.01M12 16.5h.01M16 16.5h.01"/></svg></span><b>Posicionamento</b><small>Formações montadas do top mensal</small></div><div class="card"><span class="ic"><svg viewBox="0 0 24 24" fill="none" stroke="currentColor" stroke-width="2" stroke-linecap="round" stroke-linejoin="round"><path d="M12 3.5l1.8 5.2 5.2 1.8-5.2 1.8L12 17.5l-1.8-5.2L5 10.5l5.2-1.8z"/><path d="M18.5 15.5l.7 2 2 .7-2 .7-.7 2-.7-2-2-.7 2-.7z"/></svg></span><b>Monte seu time</b><small>Seu time e o inimigo no tabuleiro</small></div></div>
+<div class="grade"><div class="card"><span class="ic"><svg viewBox="0 0 24 24" fill="none" stroke="currentColor" stroke-width="2" stroke-linecap="round" stroke-linejoin="round"><rect x="5" y="2.5" width="14" height="19" rx="3"/><path d="M8.5 6.5h7M8.5 11h.01M12 11h.01M15.5 11h.01M8.5 14.5h.01M12 14.5h.01M8.5 18h.01M12 18h.01M15.5 14.5V18"/></svg></span><b>Calculadora</b><small>Nota, score PvP e preço justo</small></div><div class="card"><span class="ic"><svg viewBox="0 0 24 24" fill="none" stroke="currentColor" stroke-width="2" stroke-linecap="round" stroke-linejoin="round"><path d="M2.5 20.5 9 9.5l3.6 5.6 2.4-3.4 6.5 8.8z"/><path d="M15 11.7V3.5l4.5 1.8L15 7.1"/></svg></span><b>Nível</b><small>Quando a conta chega no nível</small></div><div class="card"><span class="ic"><svg viewBox="0 0 24 24" fill="none" stroke="currentColor" stroke-width="2" stroke-linecap="round" stroke-linejoin="round"><path d="M8 3.5h8V9a4 4 0 0 1-8 0z"/><path d="M8 5.5H5a3 3 0 0 0 3.2 4M16 5.5h3a3 3 0 0 1-3.2 4M12 13v3.5M8.5 20.5h7M9.5 16.5h5v4h-5z"/></svg></span><b>Tier PvP</b><small>O meta do ranqueado, todo dia</small></div><div class="card"><span class="ic"><svg viewBox="0 0 24 24" fill="none" stroke="currentColor" stroke-width="2" stroke-linecap="round" stroke-linejoin="round"><rect x="3.5" y="3.5" width="17" height="17" rx="3"/><path d="M3.5 12h17"/><circle cx="12" cy="12" r="3"/><path d="M8 7.5h.01M16 7.5h.01M8 16.5h.01M12 16.5h.01M16 16.5h.01"/></svg></span><b>Posicionamento</b><small>Formações do top 200 do PvP</small></div><div class="card"><span class="ic"><svg viewBox="0 0 24 24" fill="none" stroke="currentColor" stroke-width="2" stroke-linecap="round" stroke-linejoin="round"><path d="M12 3.5l1.8 5.2 5.2 1.8-5.2 1.8L12 17.5l-1.8-5.2L5 10.5l5.2-1.8z"/><path d="M18.5 15.5l.7 2 2 .7-2 .7-.7 2-.7-2-2-.7 2-.7z"/></svg></span><b>Monte seu time</b><small>Seu time e o inimigo no tabuleiro</small></div></div>
 </body>
 </html>

diff --git a/assets/ferramentas.js b/assets/ferramentas.js
@@ -119,7 +119,7 @@ document.addEventListener('DOMContentLoaded', () => { for (const c of document.q
     { p: 'calculadora/', d: 'Nota, score e preço', n: 'Calculadora', ic: svg('<rect x="5" y="2.5" width="14" height="19" rx="3"/><path d="M8.5 6.5h7M8.5 11h.01M12 11h.01M15.5 11h.01M8.5 14.5h.01M12 14.5h.01M8.5 18h.01M12 18h.01M15.5 14.5V18"/>') },
     { p: 'nivel/', d: 'Quando você chega lá', n: 'Nível', ic: svg('<path d="M2.5 20.5 9 9.5l3.6 5.6 2.4-3.4 6.5 8.8z"/><path d="M15 11.7V3.5l4.5 1.8L15 7.1"/>') },
     { p: 'tier/', d: 'O meta do ranqueado, todo dia', n: 'Tier PvP', ic: svg('<path d="M8 3.5h8V9a4 4 0 0 1-8 0z"/><path d="M8 5.5H5a3 3 0 0 0 3.2 4M16 5.5h3a3 3 0 0 1-3.2 4M12 13v3.5M8.5 20.5h7M9.5 16.5h5v4h-5z"/>') },
-    { p: 'posicionamento/', d: 'Formações montadas do top mensal', n: 'Posicionamento', ic: svg('<rect x="3.5" y="3.5" width="17" height="17" rx="3"/><path d="M3.5 12h17"/><circle cx="12" cy="12" r="3"/><path d="M8 7.5h.01M16 7.5h.01M8 16.5h.01M12 16.5h.01M16 16.5h.01"/>') },
+    { p: 'posicionamento/', d: 'Formações do top 200 do PvP', n: 'Posicionamento', ic: svg('<rect x="3.5" y="3.5" width="17" height="17" rx="3"/><path d="M3.5 12h17"/><circle cx="12" cy="12" r="3"/><path d="M8 7.5h.01M16 7.5h.01M8 16.5h.01M12 16.5h.01M16 16.5h.01"/>') },
     { p: 'monte-seu-time/', d: 'Passivas do PvP no tabuleiro', n: 'Monte seu time', ic: svg('<path d="M12 3.5l1.8 5.2 5.2 1.8-5.2 1.8L12 17.5l-1.8-5.2L5 10.5l5.2-1.8z"/><path d="M18.5 15.5l.7 2 2 .7-2 .7-.7 2-.7-2-2-.7 2-.7z"/>') },
     { p: 'farm/', d: 'Quem mais farma agora', n: 'Top farm', ic: svg('<path d="M4 19.5h16"/><path d="M7 16v-4M12 16V7M17 16v-7"/><path d="M14.5 4.5 17 3l1.5 2.5"/>') },
     { p: 'shinies/', d: 'Os capturados no último dia', n: 'Shinies 24h', ic: svg('<path d="M12 2.5c.9 4.6 2.9 6.6 7.5 7.5-4.6.9-6.6 2.9-7.5 7.5-.9-4.6-2.9-6.6-7.5-7.5 4.6-.9 6.6-2.9 7.5-7.5z"/><path d="M19 16v4.5M16.75 18.25h4.5"/>') },

diff --git a/ferramentas/inicio.html b/ferramentas/inicio.html
@@ -13,8 +13,8 @@
   <meta property="og:title" content="Ferramentas do Pokéidle · PokePocket" />
   <meta property="og:description" content="Calculadora de pokémon, nível, tier PvP e posicionamento dos top. Grátis, no navegador e sem login." />
   <meta property="og:url" content="https://iampiscis.github.io/pokepocketferramentas/" />
-  <meta property="og:image" content="https://iampiscis.github.io/pokepocket/assets/previa-ferramentas.png?v=202611270007" />
-  <meta name="twitter:image" content="https://iampiscis.github.io/pokepocket/assets/previa-ferramentas.png?v=202611270007" />
+  <meta property="og:image" content="https://iampiscis.github.io/pokepocket/assets/previa-ferramentas.png?v=202611281704" />
+  <meta name="twitter:image" content="https://iampiscis.github.io/pokepocket/assets/previa-ferramentas.png?v=202611281704" />
   <meta name="twitter:card" content="summary_large_image" />
   <link rel="icon" href="../assets/icone.png" />
   <link rel="stylesheet" href="../assets/ferramentas.css?v=20261128" />
@@ -337,7 +337,7 @@
                 <div class="cartao-cab"><span class="cartao-ic"><svg viewBox="0 0 24 24" fill="none" stroke="currentColor" stroke-width="2" stroke-linecap="round" stroke-linejoin="round" aria-hidden="true"><rect x="3.5" y="3.5" width="17" height="17" rx="3"/><path d="M3.5 12h17"/><circle cx="12" cy="12" r="3"/><path d="M8 7.5h.01M16 7.5h.01M8 16.5h.01M12 16.5h.01M16 16.5h.01"/></svg></span><h2>Posicionamento</h2></div>
                 <p class="linha">Como os melhores jogadores montam o time no tabuleiro.</p>
                 <ul>
-                  <li>Formações montadas do top mensal</li>
+                  <li>Formações do top 200 do PvP</li>
                   <li>Onde cada pokémon fica</li>
                   <li>Atualizado ao longo do dia</li>
                 </ul>

diff --git a/posicionamento/posicionamento.js b/posicionamento/posicionamento.js
@@ -128,7 +128,7 @@ function pintar() {
   const explica = el('div', { id: 'pos-explica', class: 'explica explica-pop', role: 'dialog', 'aria-label': 'Como as formações são escolhidas', hidden: true }, [
     el('div', { class: 'ex-cab' }, [el('b', { text: 'Como as formações são escolhidas' })]),
     el('div', { class: 'ex-grade' }, [
-      bloco('⚔', 'Formação montada', 'Jogadores do top que fogem da formação automática.'),
+      bloco('⚔', 'Formações vistas', 'Todas as formações do top 200 vistas em partidas contra as nossas contas.'),
       bloco('★', 'Ranking', 'Os 10 mais bem colocados em destaque; abaixo, o resto até o top 200.'),
       bloco('↑', 'Tabuleiro', 'Adversário em cima. Toque num pokémon para ver o alcance.'),
       bloco('➶', 'Alcance', 'Espada luta colado, arco ataca de longe.')
